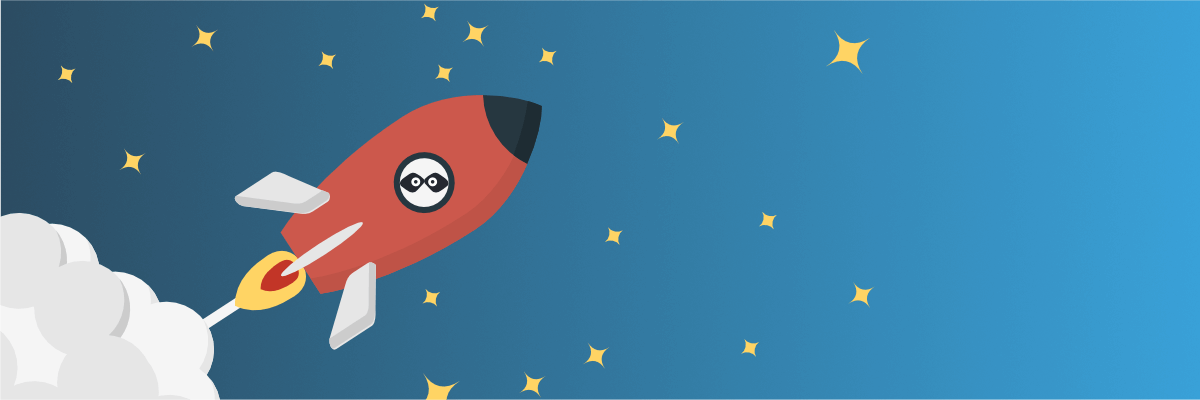
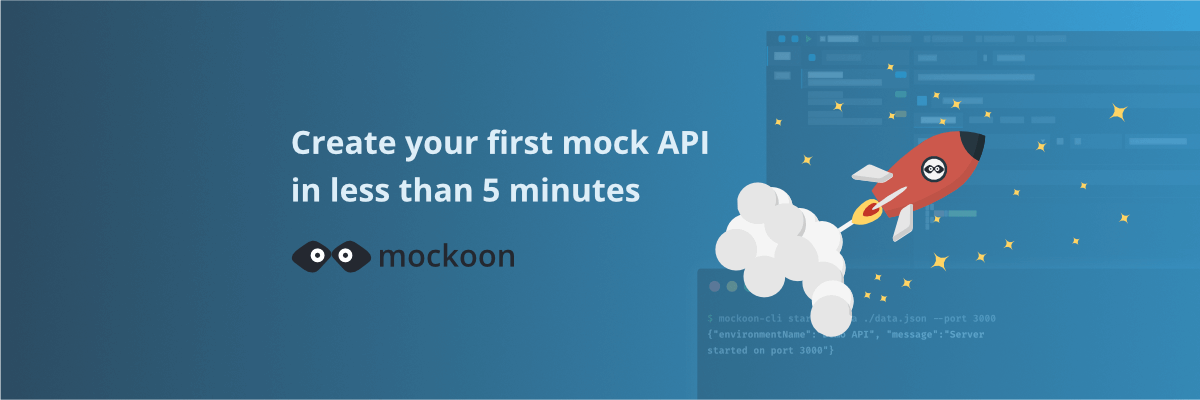
Update getting started tutorial

diff --git a/content/tutorials/getting-started.md b/content/tutorials/getting-started.md
@@ -1,9 +1,9 @@
 ---
 title: Create your first mock API with Mockoon
-excerpt: Learn how to create your first mock REST API with Mockoon
+excerpt: Learn how to create your first mock REST API with Mockoon in less than 5 minutes
 meta:
   title: Create your first mock API with Mockoon
-  description: Use Mockoon to create your first mock API server in no time and generate fake realistic JSON body for your frontends.
+  description: Use Mockoon to create your first mock API server in no time and generate fake realistic JSON data for your applications.
 image: tutorial-getting-started.png
 imageAlt: Mockoon logo in a rocket
 imageWidth: 1200
@@ -11,73 +11,89 @@ imageHeight: 400
 order: 10
 ---
 
-Mockoon is a free cross-platform desktop application that takes API mocking to the next level. Mockoon offers a fast and easy-to-use interface and gives you complete control over your mock APIs with advanced functionality like [a templating system](docs:templating/overview), [a proxy mode](docs:server-configuration/proxy-mode), and [requests recording](docs:logging-and-recording/auto-mocking-and-recording).
+Mockoon is a free cross-platform desktop application that takes API mocking to the next level. Mockoon offers a fast and easy-to-use interface and gives you complete control over your mock APIs with advanced functionality like [a templating system](docs:templating/overview), [a proxy mode](docs:server-configuration/proxy-mode), and [request recording](docs:logging-and-recording/auto-mocking-and-recording).
 
-This tutorial will show you how to install the desktop mocking application and set up your first mock API.
+This tutorial will show you how to install the desktop application and configure your first mock API.
 
 [![View the video version button{250x71}](/images/view-video-btn-250.png)](https://youtu.be/XKMCKwxMkWs)
 
-> To learn more about APIs and API mocking in general, head over to our [API guide](/articles/api-guide-what-are-api/) or [API mocking guide](/articles/what-is-api-mocking/)
+> 📘 To learn more about APIs and API mocking in general, head over to our [API guide](/articles/api-guide-what-are-api/) or [API mocking guide](/articles/what-is-api-mocking/)
 
 ## Step 1. Install the application
 
-Mockoon is available on the three major operating systems: Windows, macOS, and Linux. Visit the [download section on the homepage](/download/) to download the binary or installer for your operating system:
+Mockoon desktop binaries are available for the three major operating systems in various formats. It is also available in several stores like Windows Store or Ubuntu Snap. Visit the [download section on the homepage](/download/) to download the binary or installer for your operating system:
 
-![Screenshot of the download section on the homepage {917x473}](/images/tutorials/getting-started/app-download-screenshot.png)
+![Screenshot of the download section on the homepage{1373x374}](/images/tutorials/getting-started/desktop-application-download-screenshot.png)
 
-After downloading the installer, double click on the file to install Mockoon and follow the instructions. Now, open the application to start setting up your first mock API.
+Depending on the operating system, you will have to install the application by following the standard installation process, like double-clicking on the installer or dragging the application to the Applications folder. After the installation is complete, you can launch the application.
 
 ## Step 2. Create your first mock API
 
-After launching the application for the first time, you will find a demo mock API, also called **"environment"** in Mockoon. You can keep it and build from here or create a new one.
-To create a new mock API, click on the "New environment" button. You will be prompted to save the environment's JSON file:
+After launching the application for the first time, you will have the opportunity to **take a quick tour of the interface**. You can skip this step if you are already familiar with the application or want to explore it by yourself. You can also access the tour later by clicking on the "Help" menu and selecting "Take the tour".
 
-![Recording of creating a new environment{1171x754}](/images/tutorials/getting-started/create-mock-api.gif)
+At the first launch, you will have a default setup, the **demo API**, also called an **environment** in Mockoon. This demo API showcases the main features of Mockoon and is a good starting point to understand how Mockoon works.
 
-You can also rename the environment, as shown below:
+You can keep this demo environment and build from here or create a new empty one, which we will do in this tutorial.
 
-![Environment renaming{670x143}](/images/tutorials/getting-started/rename-environment.png)
+To create a new mock API, click on the "New environment" button. You will be prompted to save the [environment's data file](docs:mockoon-data-files/data-storage-location) on your computer:
 
-## Step 3. Create your first API route
+![Recording of creating a new environment{1468x886}](/images/tutorials/getting-started/create-first-mock-api.gif)
 
-The newly created mock API already includes a route on `/`. You can modify it by setting up the method and path of your choice.
+> 💡 You can synchronize your setup in our cloud and collaborate with your coworkers by subscribing to [Mockoon Pro](/pro/)
 
-You can also create a new endpoint by clicking on the blue "plus" button at the top of the endpoint list:
+## Step 3. Create your first API endpoint
 
-![Recording of adding a new API route{1171x754}](/images/tutorials/getting-started/create-api-route.gif)
+The newly created mock API, or environment, already includes an endpoint with no path and a `GET` method. This endpoint will be available at `http://localhost:3000/` by default. You can modify it by setting up the method and path of your choice.
 
-## Step 4. API endpoint configuration
+You can also create a **new endpoint** by selecting "Http route" in the route menu add button. In this tutorial, we will create a new `GET` endpoint with the path `/users`, which will return a list of randomly generated users:
 
-You can further customize your endpoint by adding a custom header and the following sample body (which makes use of Mockoon's [templating system](docs:templating/overview)):
+![Recording of adding a new API route{1468x886}](/images/tutorials/getting-started/create-basic-api-endpoint.gif)
+
+## Step 4. Body and headers configuration
+
+We will customize the endpoint by adding a **response body** that will return a JSON of randomly generated users. You can copy and paste the following JSON in the response body field. This template uses our [templating system](docs:templating/overview) to generate random data for each user:
 
 ```json
 // Sample body
 [
-  {{# repeat 5}}
-  {
-    "title": "Tutorial {{@index}}",
-    "tags": "{{someOf (array 'Getting started' 'https' 'proxy mode' 'headers' 'templating') 1 3}}"
-  }
-  {{/ repeat}}
+  {{#repeat 10}}
+    {
+      "id": "{{faker 'string.uuid'}}",
+      "name": "{{faker 'person.firstName'}} {{faker 'person.lastName'}}",
+      "email": "{{faker 'internet.email'}}",
+      "phone": "{{faker 'phone.number'}}",
+      "address": "{{faker 'location.streetAddress'}}, {{faker 'location.city'}}, {{faker 'location.stateAbbr'}} {{faker 'location.zipCode'}}",
+      "birthdate": "{{faker 'date.past'}}",
+      "isActive": {{faker 'datatype.boolean'}}
+    }
+  {{/repeat}}
 ]
 ```
 
-![Recording of updating an API route{1171x754}](/images/tutorials/getting-started/update-api-route.gif)
+We will also add a **Content-Type** header to the response. This header is necessary for the client to understand the response format. In this case, we will set it to `application/json`:
 
-You can create a more complex configuration by serving files or [adding multiple responses triggered by rules](docs:route-responses/dynamic-rules).
+![Recording of updating an API route{1468x886}](/images/tutorials/getting-started/add-body-template-header.gif)
 
-## Step 5. Run and call your mock API
+> 💡 You can create a more complex configurations by [adding multiple responses triggered by rules](docs:route-responses/dynamic-rules).
 
-The last step is to run your mock API. For this, click on the green "play" arrow in the header:
+## Step 5. Add a delay to the response
 
-![Recording of running a mock API{1171x754}](/images/tutorials/getting-started/run-mock-api.gif)
+The last step is to add a **delay to the response** to simulate a real-world scenario where the server takes some time to process the request. This is useful for testing the client's behavior when the server is slow to respond.
 
-Your mock server is now available on `http://localhost:3000` (but also on `http://127.0.0.1` and all your local network adapters).
+You can add a delay to the response by setting the **delay** field in the response configuration. In this case, we will set it to 2000 milliseconds (2 seconds):
 
-You can do a test call to the following URL `http://localhost:3000/tutorials` using your favorite tool (here using Insomnia) and see the returned response:
+![Recording of adding a delay to the response{1468x886}](/images/tutorials/getting-started/add-response-delay.gif)
 
-![Screenshot of the result call{1052x458}](/images/tutorials/getting-started/result-call.png)
+## Step 6. Run and call your mock API
 
-## Step 6. Learn more
+Finally, you can **run your mock API** by clicking on the green "play" arrow in the header. This will **start the server** and make it available on `http://localhost:3000`.
 
-Now that you know how to create a basic mock API, you can head over to the [official documentation](docs:about) to explore the other functionalities like [requests logging](docs:logging-and-recording/requests-logging), [partial API mocking with proxy mode](docs:server-configuration/proxy-mode), or the [templating system](docs:templating/overview).
+![Recording of starting the mock API{1468x886}](/images/tutorials/getting-started/start-mock-api.gif)
+
+You can do a **test cal**l to the following URL `http://localhost:3000/users` using a tool like curl, Postman, or your browser. You should see the list of randomly generated users in the response:
+
+![Screenshot of the result call{1176x612}](/images/tutorials/getting-started/calling-users-list.png)
+
+## Step 7. Learn more
+
+Now that you know how to create a basic mock API, you can head over to the [official documentation](docs:about) to explore the other functionalities available like [requests logging](docs:logging-and-recording/requests-logging), [partial API mocking with proxy mode](docs:server-configuration/proxy-mode), or the [templating system](docs:templating/overview).

diff --git a/content/tutorials/use-environment-variables.md b/content/tutorials/use-environment-variables.md
@@ -34,7 +34,7 @@ To access an environment variable in your templates, use the `getEnvVar` helper.
 
 You can **change the prefix** or **remove it** entirely in the desktop application settings:
 
-![desktop application settings showing the prefix input](/images/tutorials/use-environment-variables/settings-environment-variables-prefix.png)
+![desktop application settings showing the prefix input{860x812}](/images/tutorials/use-environment-variables/settings-environment-variables-prefix.png)
 
 You can also modify the prefix when running your mock with the CLI by using the `--env-vars-prefix` flag:
 
@@ -72,7 +72,7 @@ export MOCKOON_API_TOKEN=abcd1234
 
 In your mock server, we will enable the proxy mode, point to the correct API endpoint (here, the endpoint is a fictive one), and use the `getEnvVar` helper to access the token and add it to an `Authorization` header:
 
-![view of Mockoon proxy settings showing an url and an authorization header](/images/tutorials/use-environment-variables/access-environment-variable-authorization-header.png)
+![view of Mockoon proxy settings showing an url and an authorization header{977x376}](/images/tutorials/use-environment-variables/access-environment-variable-authorization-header.png)
 
 You can see that we are using the `getEnvVar` helper to access the `MOCKOON_API_TOKEN` environment variable and add it to the `Authorization` header:
 
@@ -84,8 +84,8 @@ Now, when you send a request to a non-existing route, for example, `GET http://l
 
 To simulate this, we will point the proxy to another Mockoon instance running on `http://localhost:3001` instead of `https://api.service.com`:
 
-![view of Mockoon proxy settings showing an url and an authorization header](/images/tutorials/use-environment-variables/proxy-mode-local-mock.png)
+![view of Mockoon proxy settings showing an url and an authorization header{982x358}](/images/tutorials/use-environment-variables/proxy-mode-local-mock.png)
 
 After making a call to our original mock server running on `http://localhost:3002`, we can inspect the forwarded request in the other instance and verify that the `Authorization` header is correctly set:
 
-![view of the forwarded request showing the authorization header](/images/tutorials/use-environment-variables/inspect-forwarded-call-authorization-header.png)
+![view of the forwarded request showing the authorization header{1097x473}](/images/tutorials/use-environment-variables/inspect-forwarded-call-authorization-header.png)
